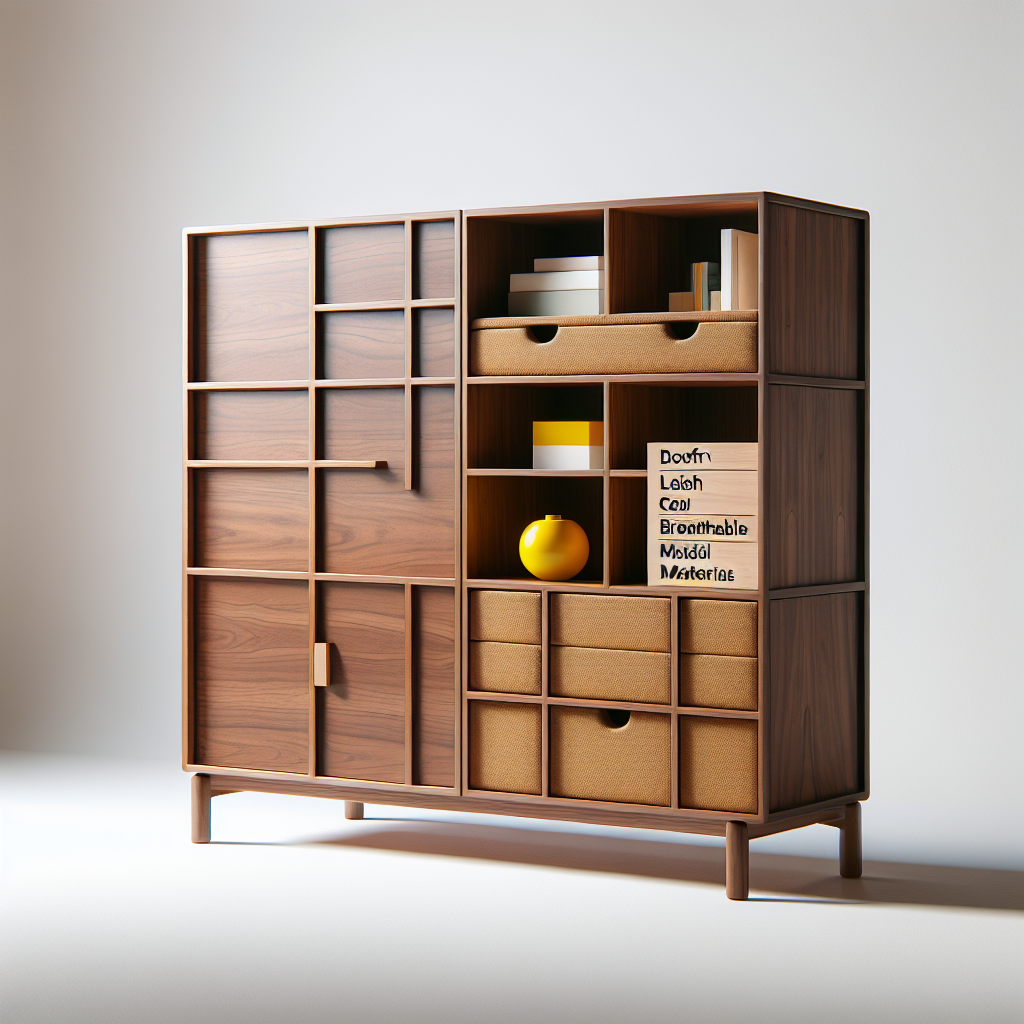
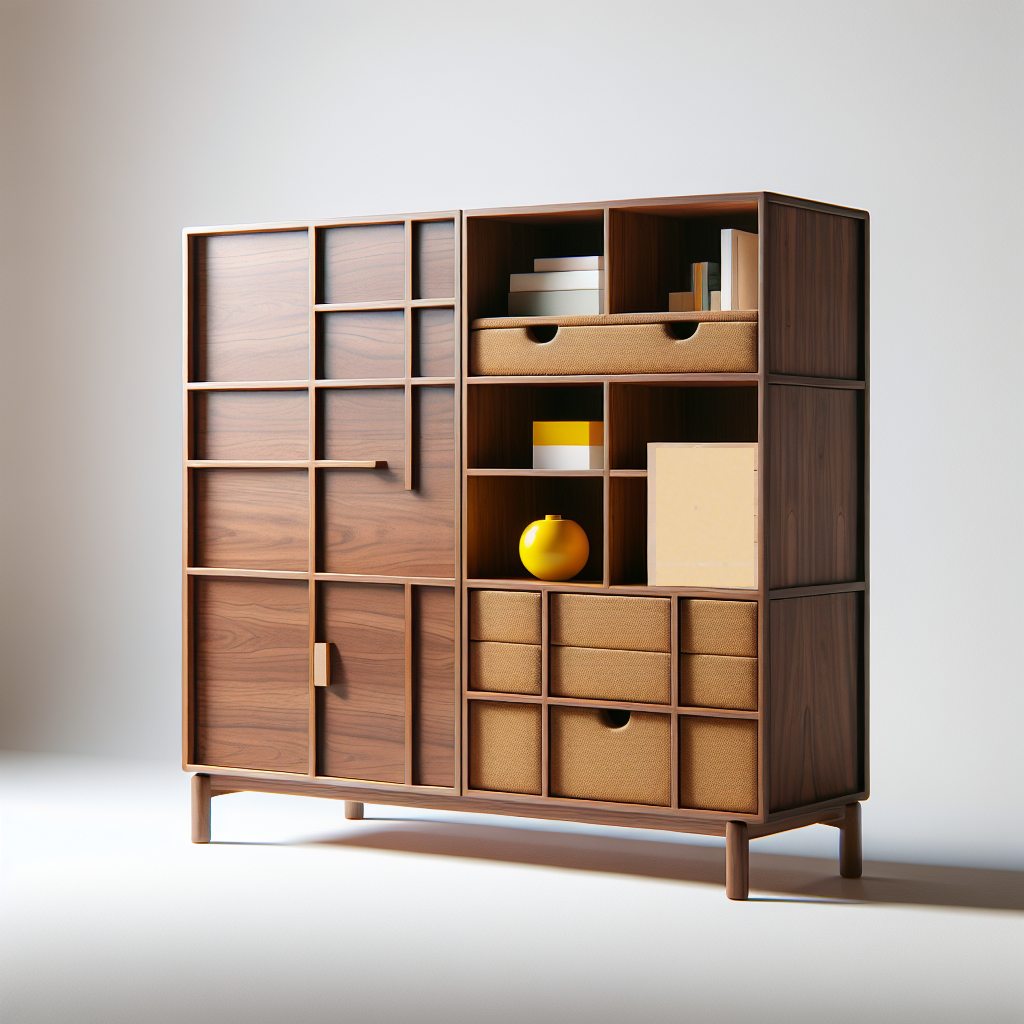
R5: product images show the product; no fake brand text; real room sample
- Arc floor lamp and smoked-glass table lamp are cropped to the lamp itself
- Remove printed fake text from the drum shade lamp (nesso), the olive
  lamp body and the walnut cabinet label by retouching the photos
- Style Analyzer sample photo 1 is now a dining room scene instead of the
  marketing banner

Claude-Session: https://claude.ai/code/session_01JY3TkZEp6VvLCp14KeHt6K

Changed region(s): [[0.625, 0.4375, 0.75, 0.5938]]

diff --git a/templates/base.html b/templates/base.html
@@ -67,7 +67,7 @@
             analyzeUrl: "{{ url_for('analyze_style') }}",
             recommendUrl: "{{ url_for('api_style_recommendations') }}",
             samplePhotos: [
-                "{{ url_for('serve_pictures', filename='banner.jpg') }}",
+                "{{ url_for('serve_pictures', filename='97_table_walnut_wood_white_suburban_spring.png', view='full') }}",
                 "{{ url_for('serve_pictures', filename='12_table_teak_warm_taupe_suburban_winter.png') }}",
                 "{{ url_for('serve_pictures', filename='64_storage_light_oak_terracotta_urban_winter.png') }}"
             ]
